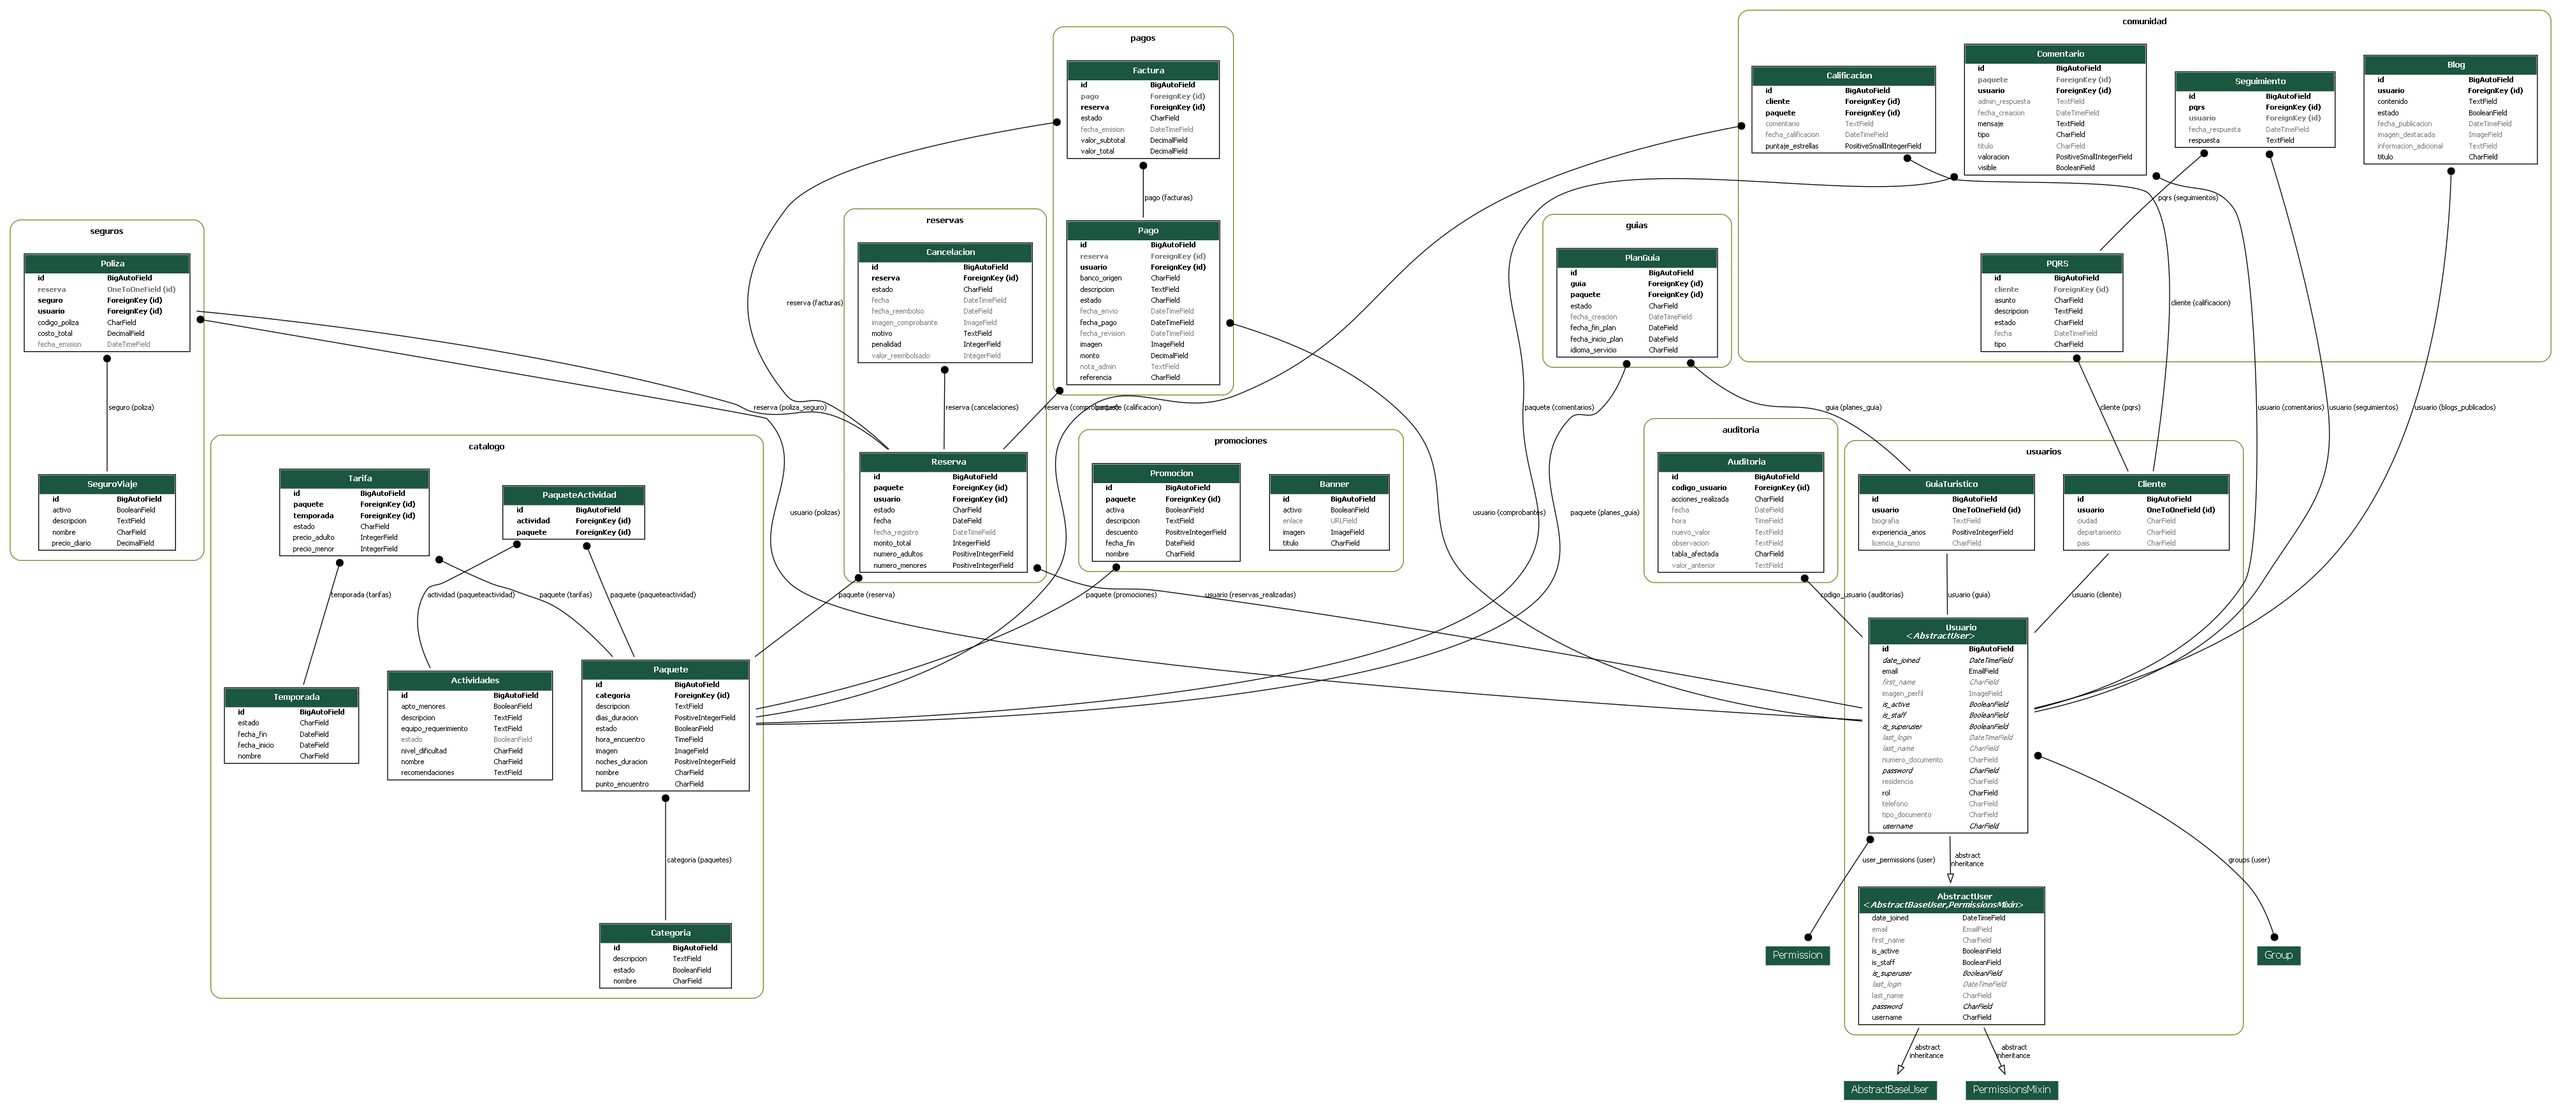
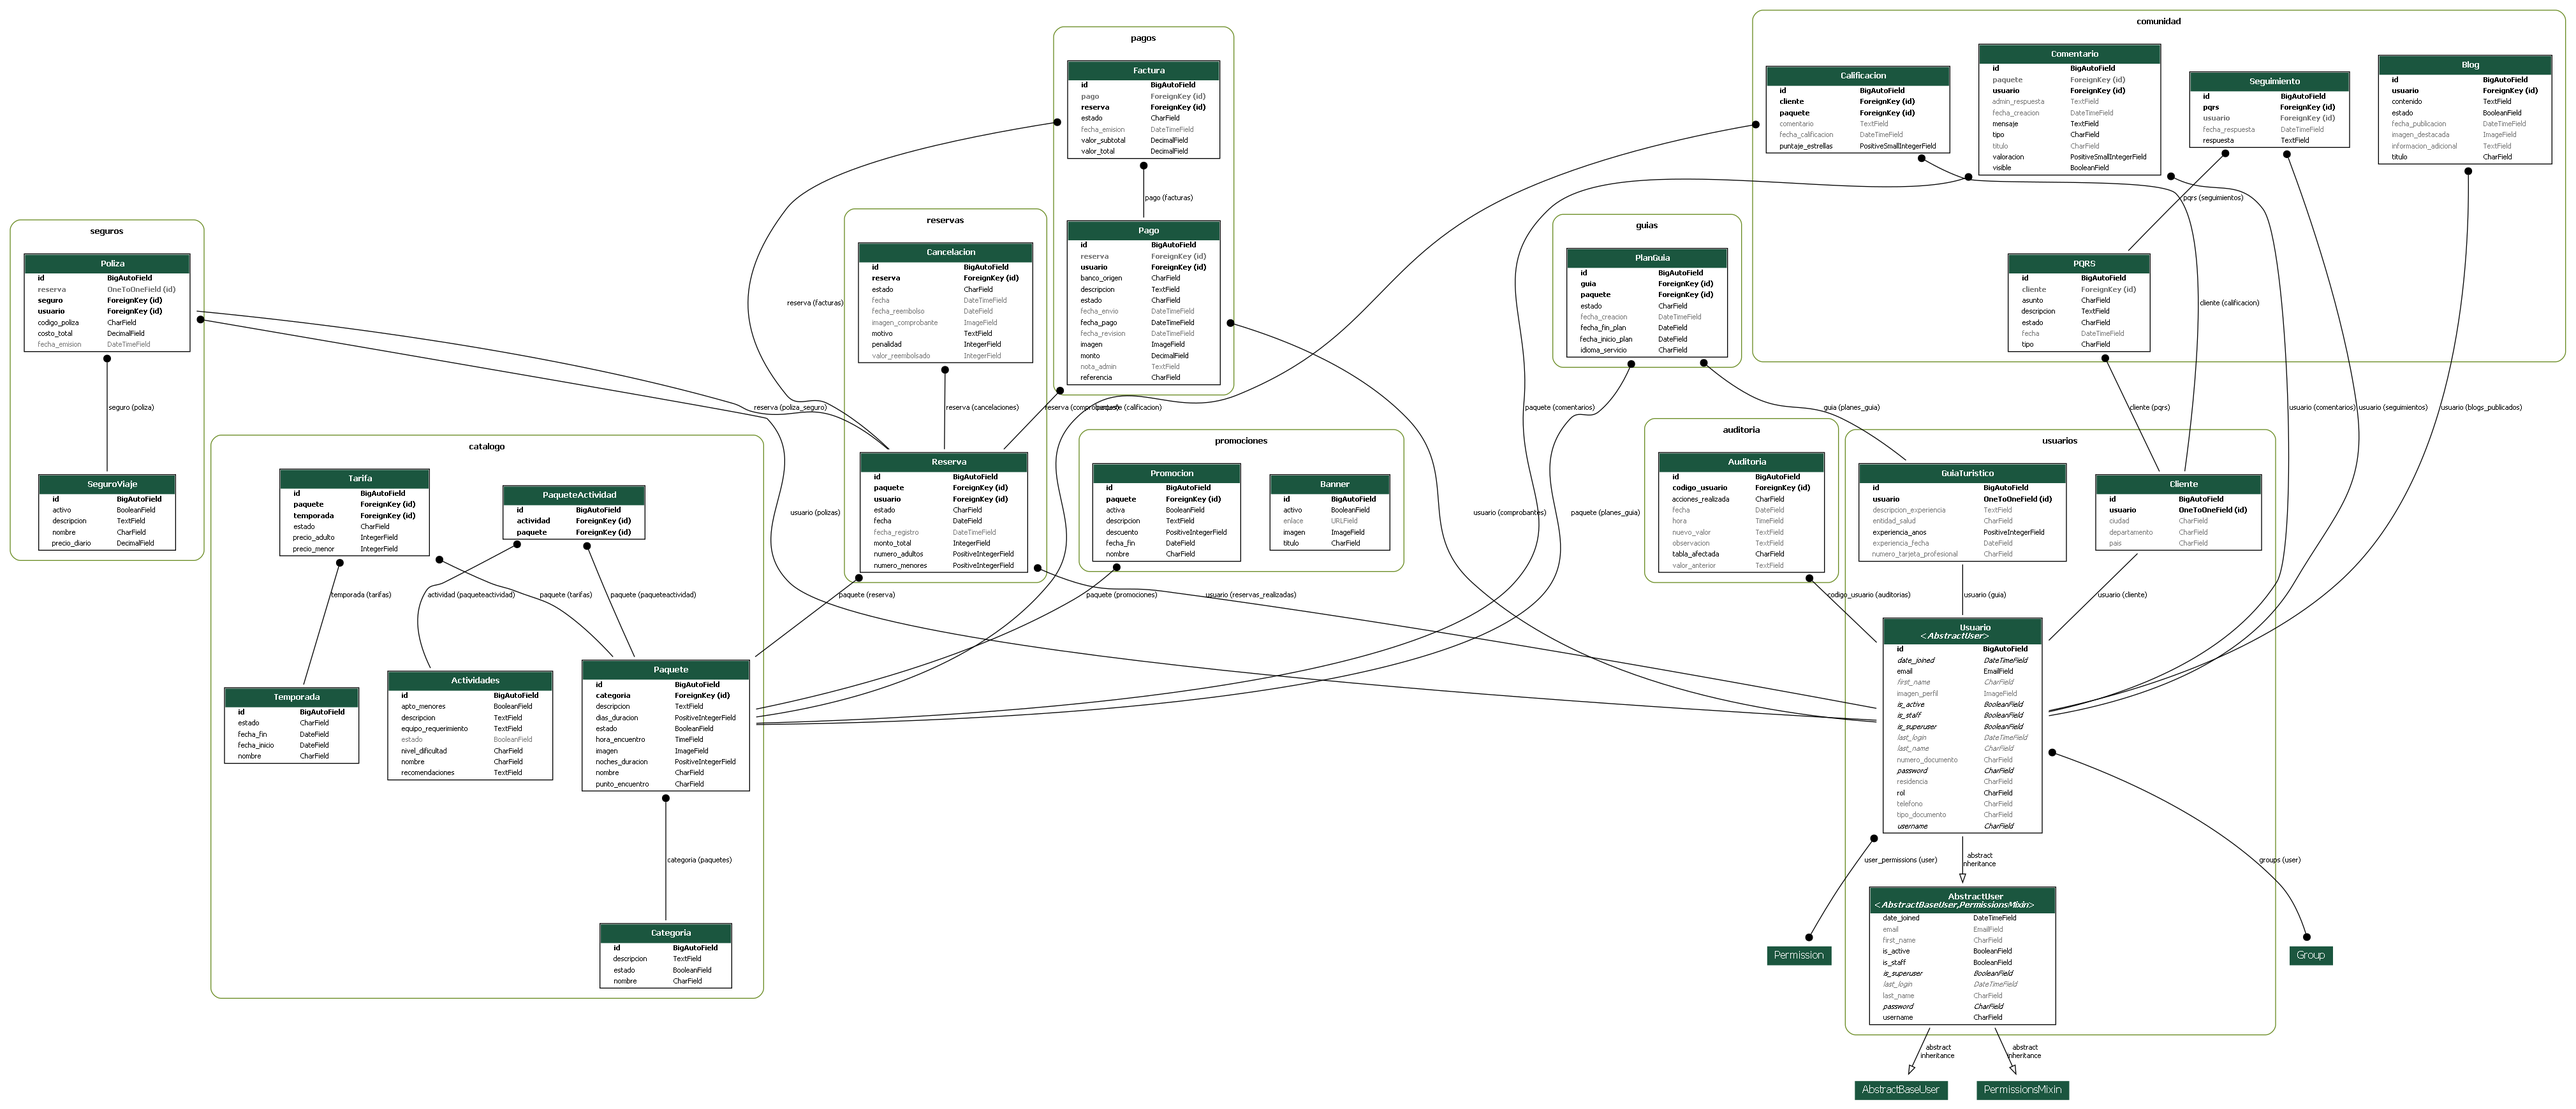
Refactor: Agregacion y Modificacion de atribitutos en entidades: Guia_Turistico, Factura, Cliente

diff --git a/templates/admin/gestion_usuarios.html b/templates/admin/gestion_usuarios.html
@@ -297,7 +297,7 @@
                     <div class="d-flex justify-content-between align-items-center mb-3 border-bottom border-warning border-opacity-25 pb-2">
                         <div>
                             <small class="text-muted text-uppercase fw-bold d-block u-style-22c80133">Licencia de Turismo</small>
-                            <span class="fw-bold text-dark fs-5 font-monospace">{% if u.guia %}{{ u.guia.licencia_turismo|default:"—" }}{% else %}—{% endif %}</span>
+                            <span class="fw-bold text-dark fs-5 font-monospace">{% if u.guia %}{{ u.guia.numero_tarjeta_profesional|default:"—" }}{% else %}—{% endif %}</span>
                         </div>
                         <div class="text-end">
                             <small class="text-muted text-uppercase fw-bold d-block u-style-22c80133">Experiencia</small>
@@ -306,7 +306,7 @@
                     </div>
                     <small class="text-muted text-uppercase fw-bold d-block mb-2 u-style-22c80133">Biografía Profesional</small>
                     <div class="bg-white rounded-3 p-3 border">
-                        <p class="text-dark small mb-0 lh-lg">{% if u.guia and u.guia.biografia %}{{ u.guia.biografia }}{% else %}Sin biografía registrada.{% endif %}</p>
+                        <p class="text-dark small mb-0 lh-lg">{% if u.guia and u.guia.descripcion_experiencia %}{{ u.guia.descripcion_experiencia }}{% else %}Sin biografía registrada.{% endif %}</p>
                     </div>
                 </div>
                 {% elif u.rol == 'CLIENTE' %}
@@ -498,7 +498,7 @@
                                 <div class="row g-3">
                                     <div class="col-md-8">
                                         <div class="form-floating">
-                                            <input type="text" class="form-control form-control-sm text-uppercase" name="licencia_turismo" value="{% if u.rol == 'GUIA' and u.guia %}{{ u.guia.licencia_turismo }}{% endif %}">
+                                            <input type="text" class="form-control form-control-sm text-uppercase" name="licencia_turismo" value="{% if u.rol == 'GUIA' and u.guia %}{{ u.guia.numero_tarjeta_profesional }}{% endif %}">
                                             <label class="text-muted small">Licencia de Turismo</label>
                                         </div>
                                     </div>
@@ -510,7 +510,7 @@
                                     </div>
                                     <div class="col-12">
                                         <div class="form-floating">
-                                            <textarea class="form-control form-control-sm u-style-1a3a679d" name="biografia">{% if u.rol == 'GUIA' and u.guia %}{{ u.guia.biografia }}{% endif %}</textarea>
+                                            <textarea class="form-control form-control-sm u-style-1a3a679d" name="biografia">{% if u.rol == 'GUIA' and u.guia %}{{ u.guia.descripcion_experiencia }}{% endif %}</textarea>
                                             <label class="text-muted small">Biografía / Presentación</label>
                                         </div>
                                     </div>

diff --git a/templates/admin/gestion_guias.html b/templates/admin/gestion_guias.html
@@ -400,7 +400,7 @@
             <i class="bi bi-compass me-2"></i>Perfil Profesional
           </h6>
           <div class="form-floating mb-3">
-              <input type="text" class="form-control form-control-sm text-uppercase" name="licencia_turismo" value="{% if user_guia.guia %}{{ user_guia.guia.licencia_turismo|default:'' }}{% endif %}" required>
+              <input type="text" class="form-control form-control-sm text-uppercase" name="licencia_turismo" value="{% if user_guia.guia %}{{ user_guia.guia.numero_tarjeta_profesional|default:'' }}{% endif %}" required>
               <label class="text-muted small">Licencia de Turismo *</label>
           </div>
           <div class="form-floating mb-3">
@@ -408,7 +408,7 @@
               <label class="text-muted small">Años de Experiencia *</label>
           </div>
           <div class="form-floating mb-4">
-              <textarea class="form-control form-control-sm u-style-1a3a679d" name="biografia">{% if user_guia.guia %}{{ user_guia.guia.biografia|default:'' }}{% endif %}</textarea>
+              <textarea class="form-control form-control-sm u-style-1a3a679d" name="biografia">{% if user_guia.guia %}{{ user_guia.guia.descripcion_experiencia|default:'' }}{% endif %}</textarea>
               <label class="text-muted small">Biografía / Presentación</label>
           </div>
 
@@ -459,7 +459,7 @@
             <div class="mb-4">
               <label class="text-muted small fw-bold text-uppercase u-style-135310c2">Licencia de Turismo</label>
               <div class="fs-4 font-monospace fw-bold text-dark border-bottom border-warning pb-2">
-                {% if user_guia.guia %}{{ user_guia.guia.licencia_turismo|default:"—" }}{% else %}—{% endif %}
+                {% if user_guia.guia %}{{ user_guia.guia.numero_tarjeta_profesional|default:"—" }}{% else %}—{% endif %}
               </div>
             </div>
 
@@ -467,8 +467,8 @@
               <label class="text-muted small fw-bold text-uppercase mb-2 u-style-135310c2">Biografía Oficial</label>
               <div class="bg-light p-3 rounded border">
                 <p class="text-dark small mb-0 lh-lg u-style-5288d5e7">
-                  {% if user_guia.guia and user_guia.guia.biografia %}
-                      {{ user_guia.guia.biografia }}
+                  {% if user_guia.guia and user_guia.guia.descripcion_experiencia %}
+                      {{ user_guia.guia.descripcion_experiencia }}
                   {% else %}
                       Sin información biográfica registrada en el sistema.
                   {% endif %}

diff --git a/usuarios/views.py b/usuarios/views.py
@@ -352,12 +352,12 @@ def usuarios_guardar(request):
         perfil.save()
     elif rol == Usuario.Roles.GUIA:
         perfil, _ = GuiaTuristico.objects.get_or_create(usuario=user)
-        perfil.licencia_turismo = request.POST.get(
-            'licencia_turismo', perfil.licencia_turismo)
+        perfil.numero_tarjeta_profesional = request.POST.get(
+            'licencia_turismo', perfil.numero_tarjeta_profesional)
         experiencia = request.POST.get('experiencia_anos', '0')
         perfil.experiencia_anos = int(
             experiencia) if experiencia.isdigit() else 0
-        perfil.biografia = request.POST.get('biografia', perfil.biografia)
+        perfil.descripcion_experiencia = request.POST.get('biografia', perfil.descripcion_experiencia)
         perfil.save()
 
     accion = 'actualizado' if user_id else 'registrado'
@@ -473,9 +473,9 @@ def guias_guardar(request):
         experiencia = request.POST.get('experiencia_anos', '0')
         GuiaTuristico.objects.create(
             usuario=user,
-            licencia_turismo=request.POST.get('licencia_turismo', ''),
+            numero_tarjeta_profesional=request.POST.get('licencia_turismo', ''),
             experiencia_anos=int(experiencia) if experiencia.isdigit() else 0,
-            biografia=request.POST.get('biografia', ''),
+            descripcion_experiencia=request.POST.get('biografia', ''),
         )
         messages.success(
             request, f'Guía «{user.get_full_name()}» registrado exitosamente.')

diff --git a/usuarios/models.py b/usuarios/models.py
@@ -174,7 +174,7 @@ class GuiaTuristico(models.Model):
         related_name='guia',
         verbose_name='Cuenta de Usuario'
     )
-    licencia_turismo = models.CharField(
+    numero_tarjeta_profesional = models.CharField(
         max_length=50,
         blank=True,
         verbose_name='Licencia de Turismo'
@@ -183,9 +183,20 @@ class GuiaTuristico(models.Model):
         default=0,
         verbose_name='Años de Experiencia'
     )
-    biografia = models.TextField(
+    experiencia_fecha = models.DateField(
+        null=True,
         blank=True,
-        verbose_name='Biografía'
+        verbose_name='Fecha de Inicio de Experiencia'
+    )
+    descripcion_experiencia = models.TextField(
+        blank=True,
+        verbose_name='Descripción de la Experiencia'
+    )
+    entidad_salud = models.CharField(
+        max_length=100,
+        blank=True,
+        null=True,
+        verbose_name='Entidad de Salud'
     )
 
     class Meta:

diff --git a/poblar_bd.py b/poblar_bd.py
@@ -180,9 +180,11 @@ def poblar_base_datos():
         )
         g = GuiaTuristico.objects.create(
             usuario=u,
-            licencia_turismo=f"LIC-BOY-{random.randint(10000, 99999)}",
+            numero_tarjeta_profesional=f"LIC-BOY-{random.randint(10000, 99999)}",
             experiencia_anos=random.randint(1, 15),
-            biografia=biografias_guia[i]
+            descripcion_experiencia=biografias_guia[i],
+            entidad_salud=random.choice(["SURA", "Sanitas", "Compensar", "Nueva EPS"]),
+            experiencia_fecha=date.today() - timedelta(days=random.randint(365, 365*5))
         )
         guias_creados.append(g)
 

diff --git a/static/docs/MER.md b/static/docs/MER.md
@@ -42,9 +42,11 @@ erDiagram
     GUIA_TURISTICO {
         int id PK "ej: 1"
         int usuario_id FK "ej: 2"
-        string licencia_turismo "ej: COL-12345"
+        string numero_tarjeta_profesional "ej: COL-12345"
         int experiencia_anos "ej: 5"
-        string biografia "ej: Experto en ecoturismo..."
+        date experiencia_fecha "ej: 2021-06-01"
+        string descripcion_experiencia "ej: Experto en ecoturismo..."
+        string entidad_salud "ej: SURA"
     }
 
     RESERVA {
